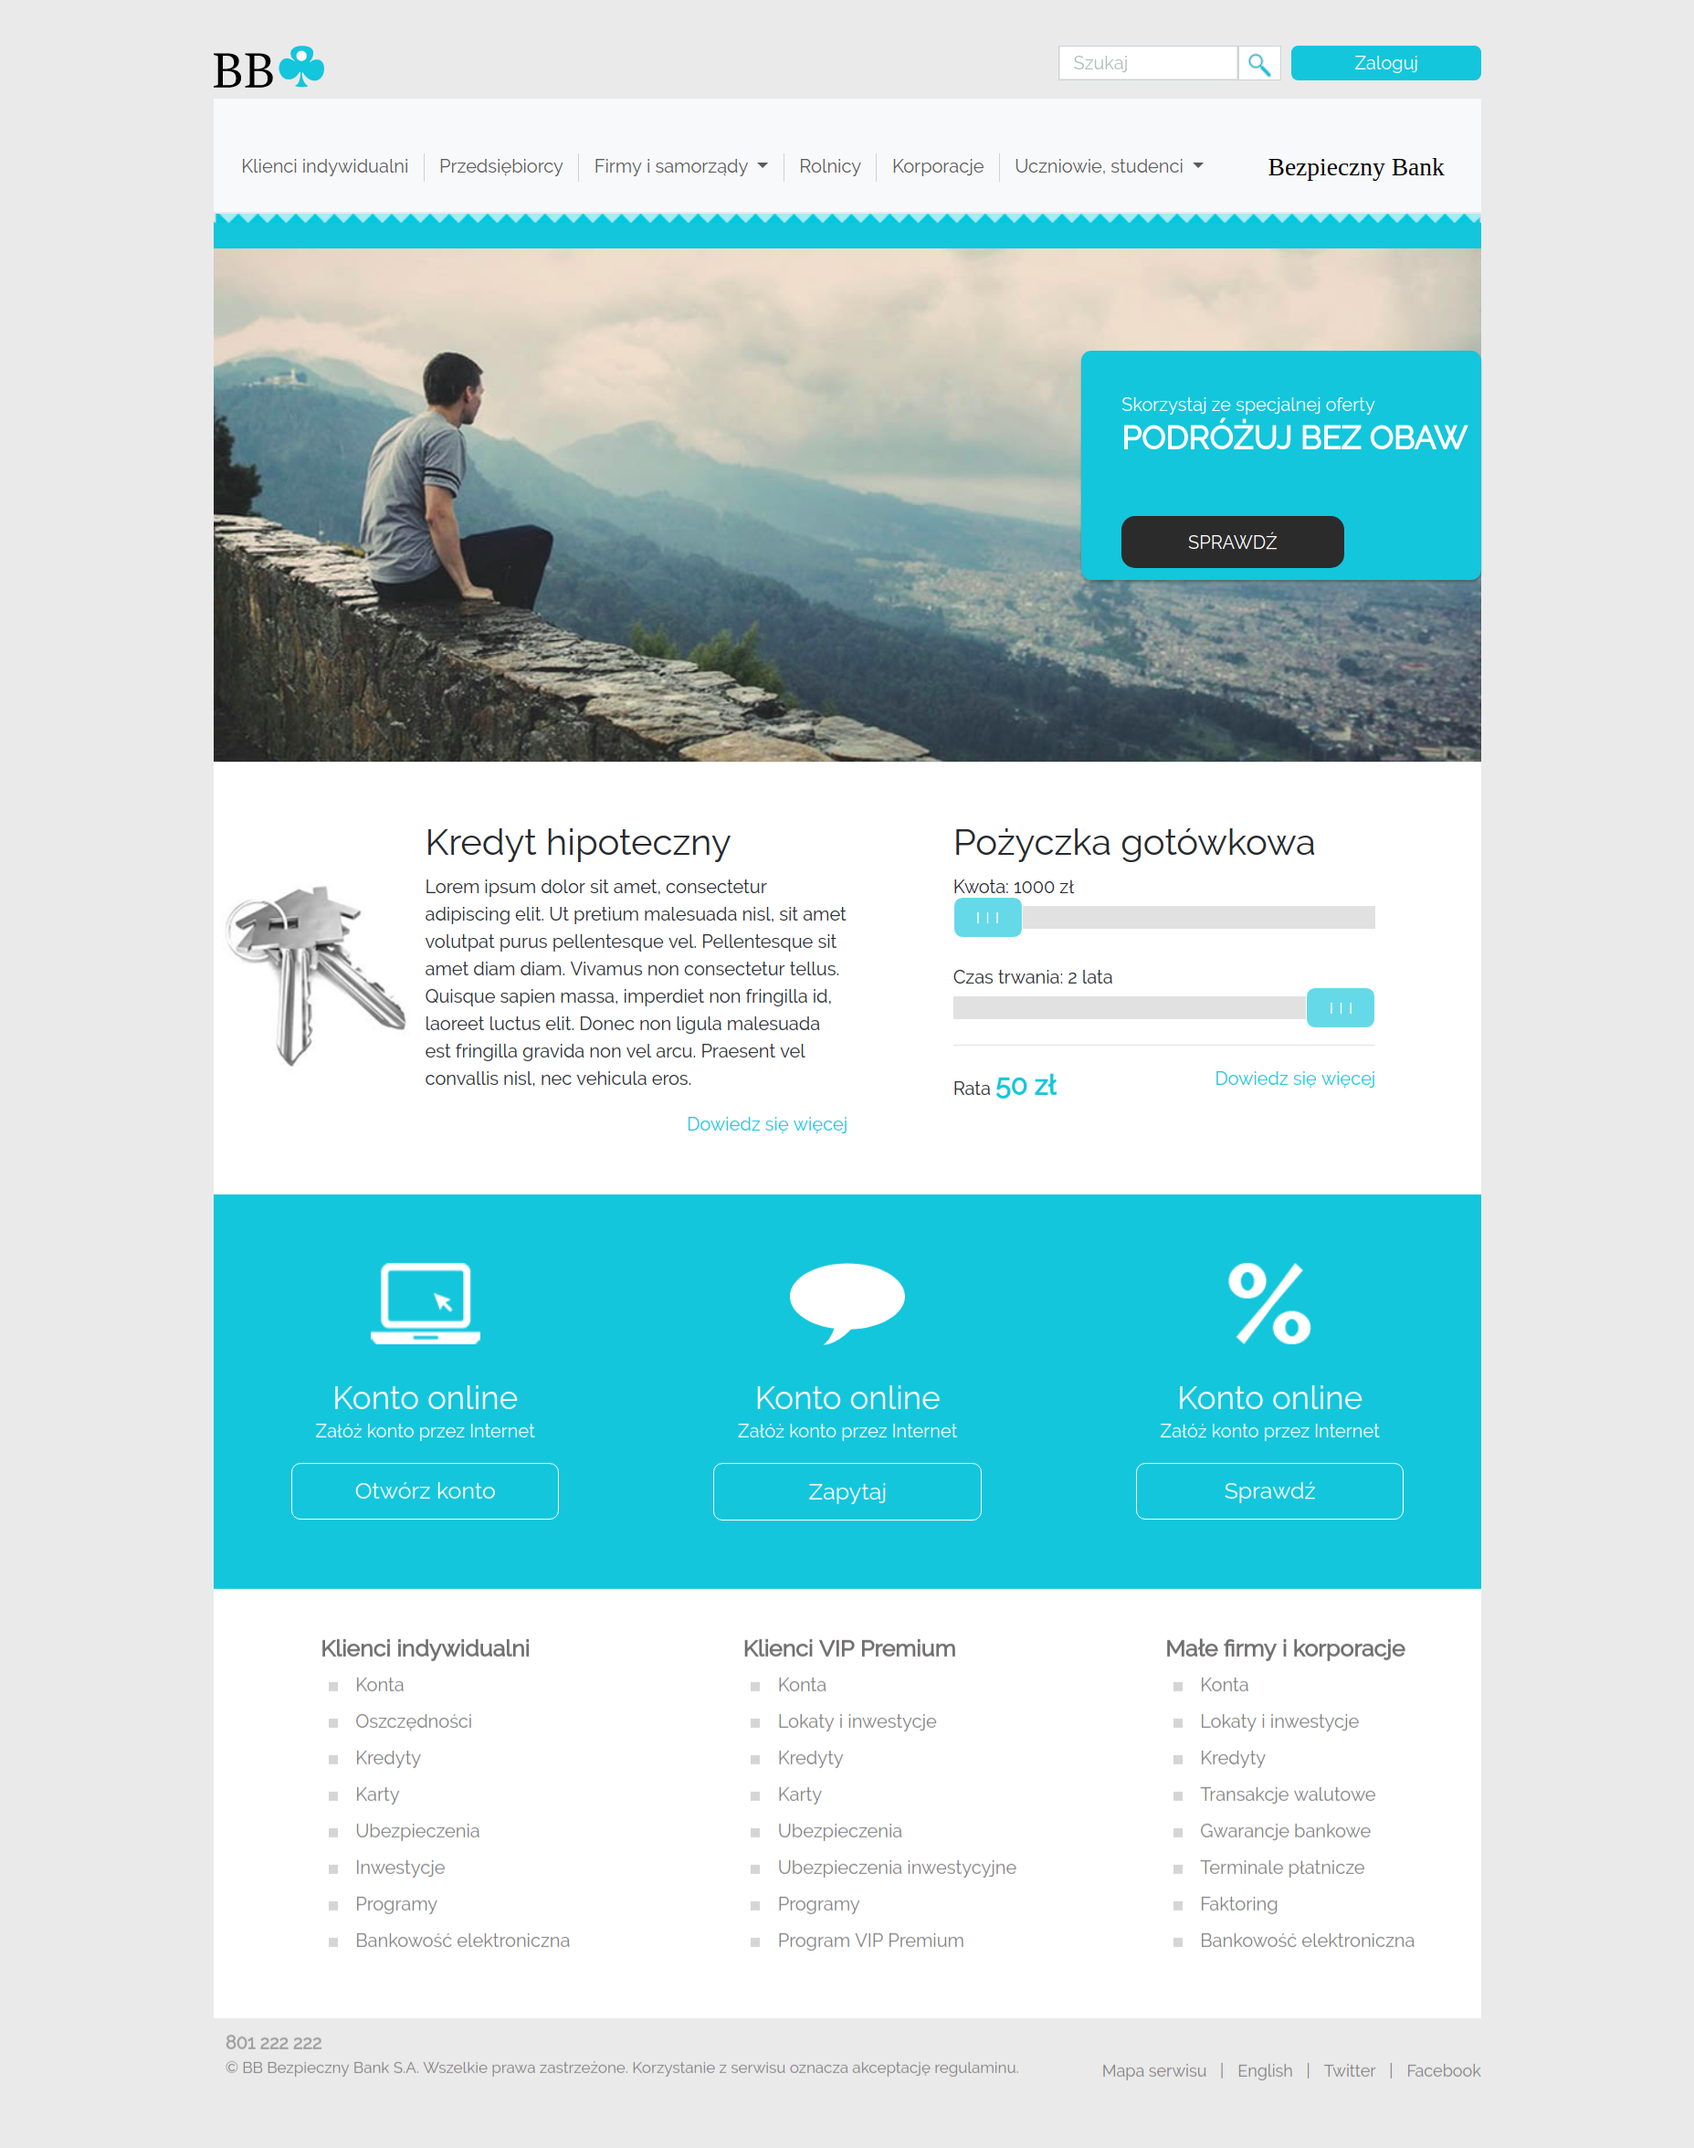
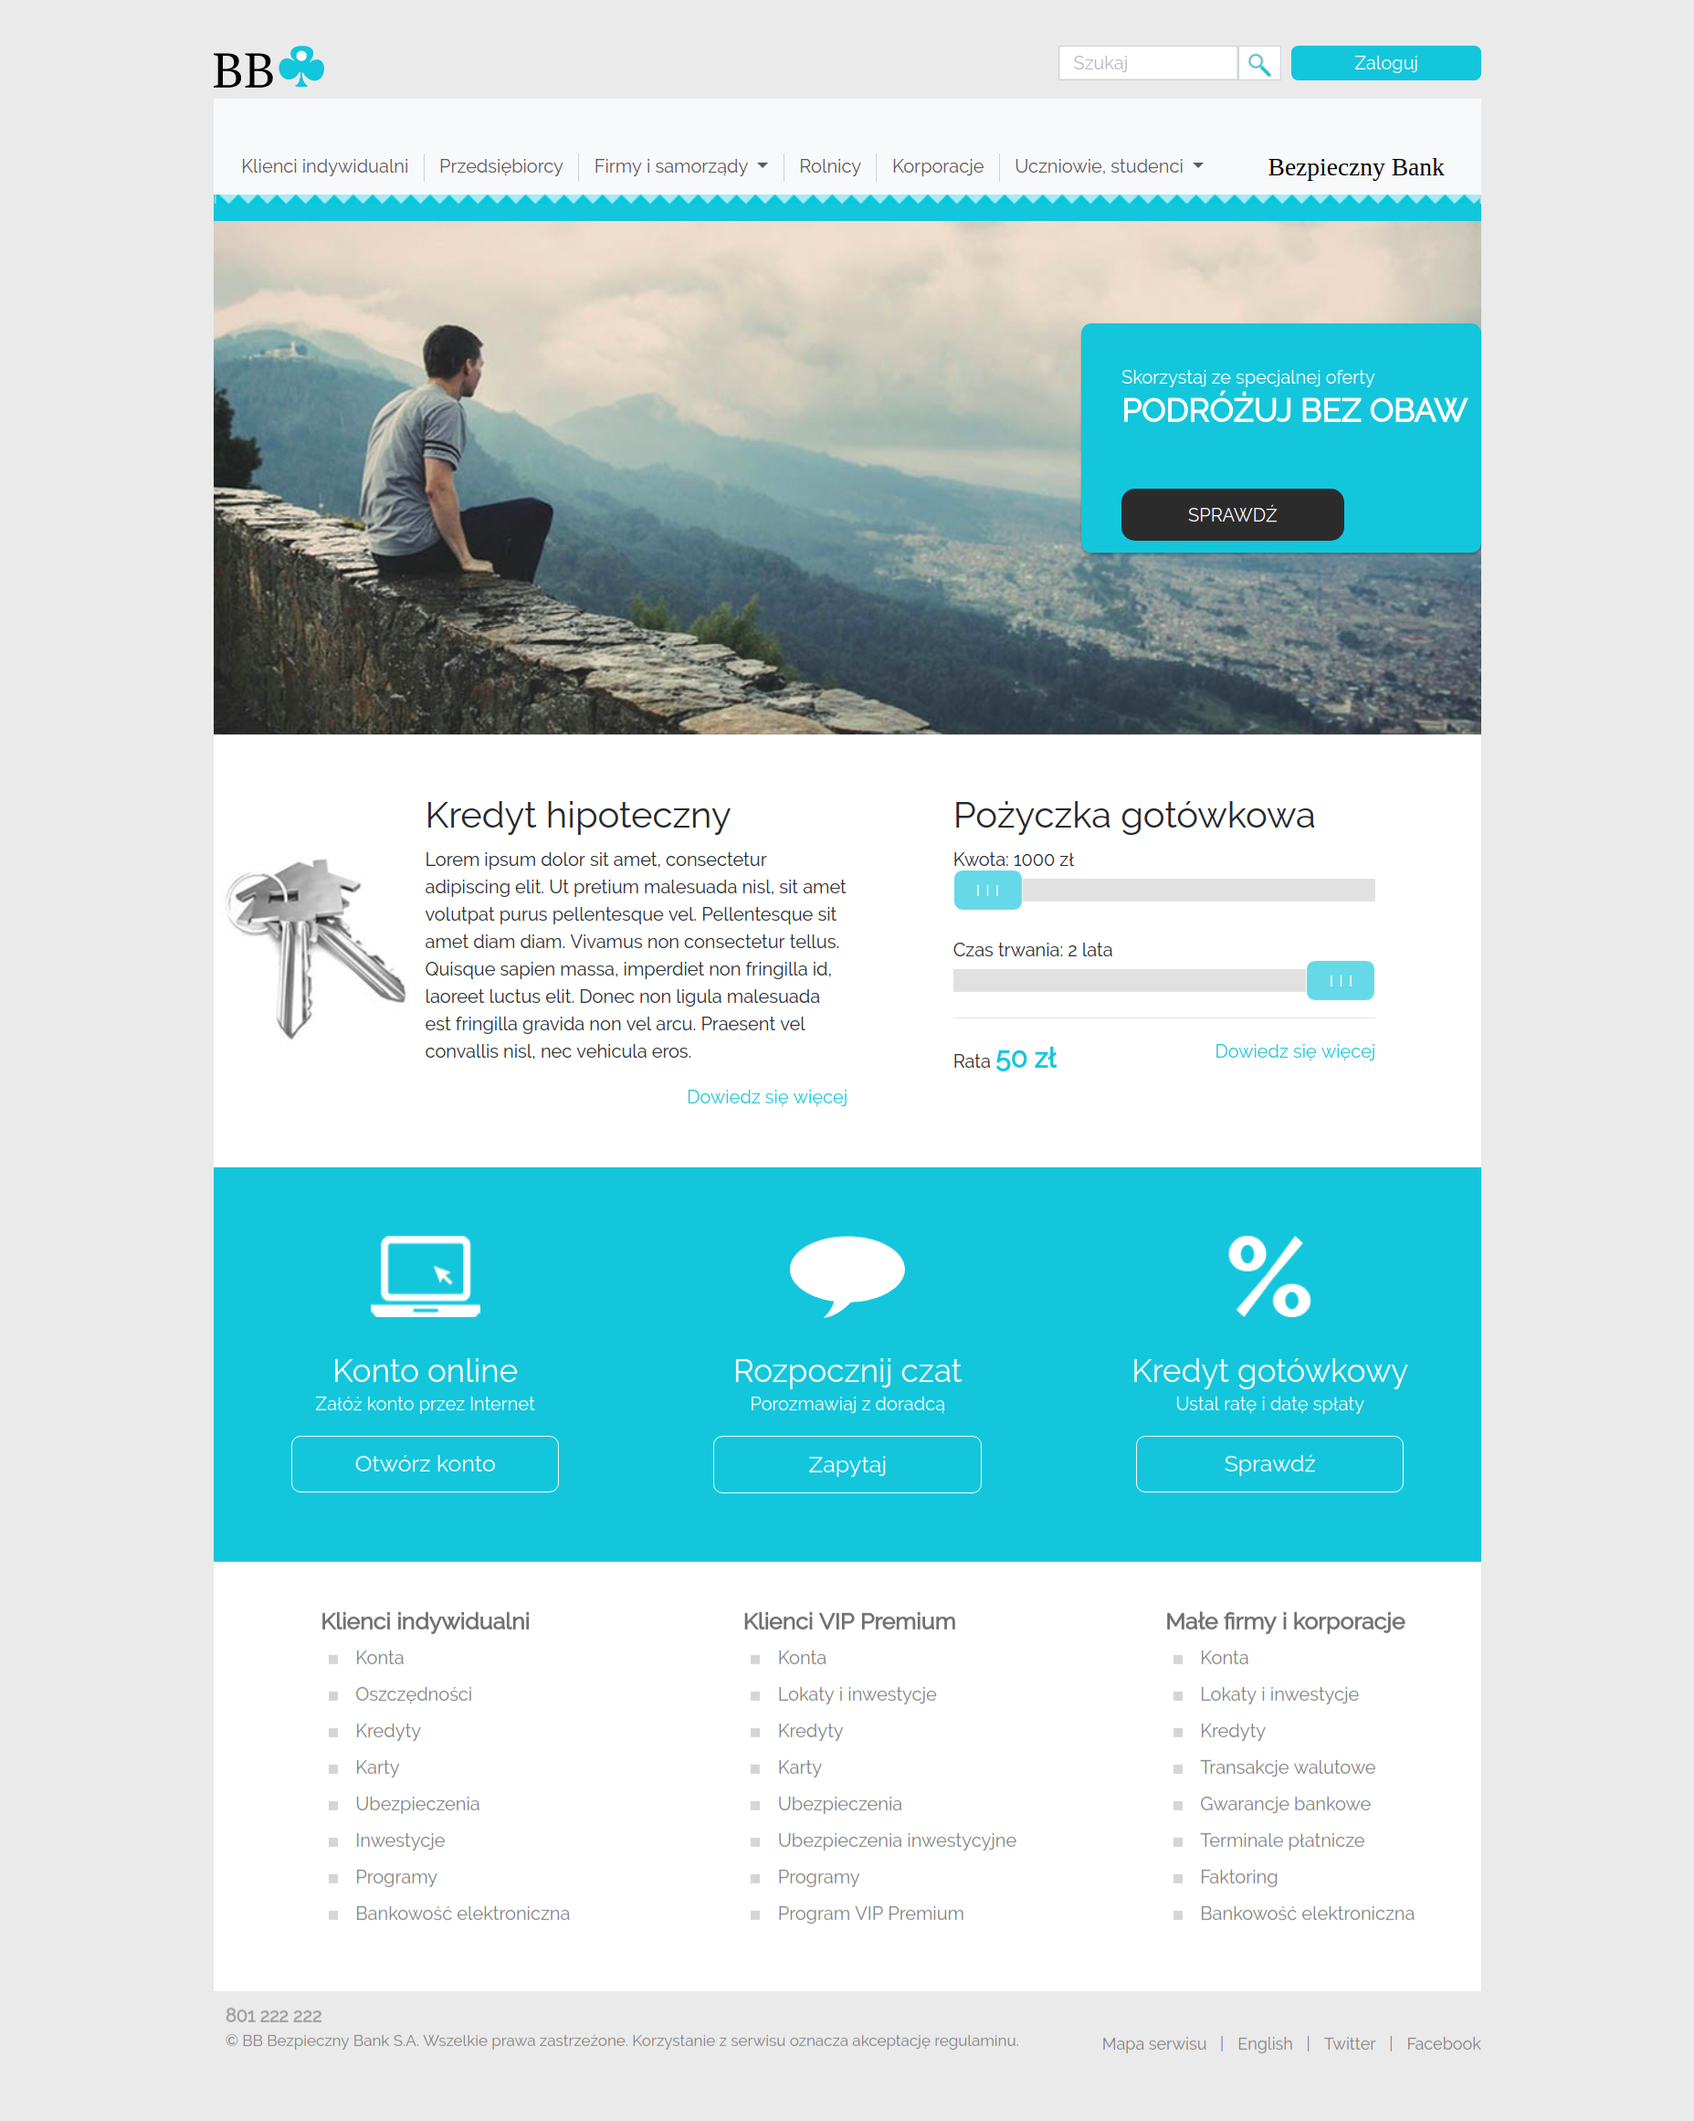
add traingles, update readme

Changed region(s): [[0.1229, 0.062, 0.8911, 0.9302]]

diff --git a/css/style.css b/css/style.css
@@ -1,3 +1,3 @@
-*{font-family:'Raleway', sans-serif}body{background-color:#ebebeb}.top{margin-top:20px;margin-bottom:10px}.blue_button{border-radius:6px;background-color:#50c5da;width:166px;height:30px;padding:0;color:white}#glass,#srch-term{background-color:#fff;border:1px solid #ced4da;border-radius:0;height:30px}#glass{margin-right:-10px}#srch-term::placeholder{opacity:0.5}#glass img{margin:-8px;margin-top:-15px}.navbar-nav,.navbar-brand{margin-top:30px;margin-bottom:10px}.nav-link{color:#5b5a5a}.nav-link:hover,.dropdown-item:hover,.navbar-brand:hover{color:#096c7e}.navbar-brand{font-family:Times New Roman;font-size:22px;color:black}.vl{border-left:1px solid lightgrey;height:25px;margin-left:5px;margin-right:5px;margin-top:1%}.arrow-down{width:0;height:0;border-left:20px solid transparent;border-right:20px solid transparent;border-top:20px solid #f00;display:inline-block}.blueStrip{height:23px;background-color:#50c5da;margin-top:-15px}.mainImg,.triangles{width:100%}.triangles{margin-top:-15px}.mainImg{height:450px}.blue{border-radius:9px;background-color:#50c5da;box-shadow:0 2px 2px 0 rgba(0,0,0,0.23);max-width:401px;height:201px;z-index:3;margin-top:-360px;position:relative}.blue p,h3{color:white}.blue p{margin-bottom:0;position:absolute;margin-top:10%;margin-left:10%}.blue h3{position:absolute;margin-top:17%;margin-left:10%;font-weight:bold}.check{border-radius:12px;background-color:#272727;width:195px;height:45px;color:white;margin-top:145px;margin-left:10%}.check:hover{color:#50c5da}.emptyRow{height:50px;background-color:white}.sliderSection{background-color:white}.slider{-webkit-appearance:none;width:100%;background:#d3d3d3;outline:none;-webkit-transition:.2s;transition:opacity .2s;opacity:0.651;height:20px}.slider::-webkit-slider-thumb{-webkit-appearance:none;appearance:none;cursor:pointer;background-image:url("../images/three.png");background-size:45% 30%;background-repeat:no-repeat;background-position:center;border:1px solid #fff;border-radius:8px;background-color:#50c5da;width:61px;height:36px}.slider::-moz-range-thumb{-webkit-appearance:none;appearance:none;cursor:pointer;background-image:url("../images/three.png");background-size:45% 30%;background-repeat:no-repeat;background-position:center;border:1px solid #fff;border-radius:8px;background-color:#50c5da;width:61px;height:36px}.slidecontainer p{margin-bottom:5px}#rata,#defaultRata,.link{color:#50c5da}#rata,#defaultRata{font-weight:bold;font-size:150%}.blueRow{height:40px;background-color:#50c5da}.bl{background-color:#50c5da}.blueimg{margin-bottom:30px;margin-top:20px}.bluediv p{color:white;margin-top:-8px}.transparentBtn{border:1px solid #fff;border-radius:8px;background-color:transparent;width:235px;height:50px;color:white;font-size:20px;margin-bottom:20px}.transparentBtn:hover{color:darkblue}.white{background-color:white}.whiteRow{height:40px;background-color:white}.side{width:5%}.oneSection h5{margin-left:7%;font-weight:bold;color:#717070}.oneSection ul li a{color:grey;margin-left:10px}.oneSection ul li{margin-bottom:8px}.oneSection ul{list-style-image:url("../images/square.svg")}.footInf p{color:grey;margin-bottom:0;margin-left:10px}.tel p{margin-top:10px;font-weight:bold;color:#a0a0a0}.copyrights{font-size:85%}.bottom{height:40px}.list-unstyled li a span{padding-left:8px}.list-unstyled li a{font-size:90%;color:grey}
+*{font-family:'Raleway', sans-serif}body{background-color:#ebebeb}.top{margin-top:20px;margin-bottom:10px}.blue_button{border-radius:6px;background-color:#50c5da;width:166px;height:30px;padding:0;color:white}#glass,#srch-term{background-color:#fff;border:1px solid #ced4da;border-radius:0;height:30px}#glass{margin-right:-10px}#srch-term::placeholder{opacity:0.5}#glass img{margin:-8px;margin-top:-15px}.navbar-nav,.navbar-brand{margin-top:30px;margin-bottom:10px}.nav-link{color:#5b5a5a}.nav-link:hover,.dropdown-item:hover,.navbar-brand:hover{color:#096c7e}.navbar-brand{font-family:Times New Roman;font-size:22px;color:black}.vl{border-left:1px solid lightgrey;height:25px;margin-left:5px;margin-right:5px;margin-top:1%}.arrow-down{width:0;height:0;border-left:20px solid transparent;border-right:20px solid transparent;border-top:20px solid #f00;display:inline-block}.blueStrip{height:23px;background-color:#50c5da;margin-top:-15px;position:relative}.mainImg,.triangles{width:100%}.triangles{margin-top:-23px;position:absolute}.mainImg{height:450px}.blue{border-radius:9px;background-color:#50c5da;box-shadow:0 2px 2px 0 rgba(0,0,0,0.23);max-width:401px;height:201px;z-index:3;margin-top:-360px;position:relative}.blue p,h3{color:white}.blue p{margin-bottom:0;position:absolute;margin-top:10%;margin-left:10%}.blue h3{position:absolute;margin-top:17%;margin-left:10%;font-weight:bold}.check{border-radius:12px;background-color:#272727;width:195px;height:45px;color:white;margin-top:145px;margin-left:10%}.check:hover{color:#50c5da}.emptyRow{height:50px;background-color:white}.sliderSection{background-color:white}.slider{-webkit-appearance:none;width:100%;background:#d3d3d3;outline:none;-webkit-transition:.2s;transition:opacity .2s;opacity:0.651;height:20px}.slider::-webkit-slider-thumb{-webkit-appearance:none;appearance:none;cursor:pointer;background-image:url("../images/three.png");background-size:45% 30%;background-repeat:no-repeat;background-position:center;border:1px solid #fff;border-radius:8px;background-color:#50c5da;width:61px;height:36px}.slider::-moz-range-thumb{-webkit-appearance:none;appearance:none;cursor:pointer;background-image:url("../images/three.png");background-size:45% 30%;background-repeat:no-repeat;background-position:center;border:1px solid #fff;border-radius:8px;background-color:#50c5da;width:61px;height:36px}.slidecontainer p{margin-bottom:5px}#rata,#defaultRata,.link{color:#50c5da}#rata,#defaultRata{font-weight:bold;font-size:150%}.blueRow{height:40px;background-color:#50c5da}.bl{background-color:#50c5da}.blueimg{margin-bottom:30px;margin-top:20px}.bluediv p{color:white;margin-top:-8px}.transparentBtn{border:1px solid #fff;border-radius:8px;background-color:transparent;width:235px;height:50px;color:white;font-size:20px;margin-bottom:20px}.transparentBtn:hover{color:darkblue}.white{background-color:white}.whiteRow{height:40px;background-color:white}.side{width:5%}.oneSection h5{margin-left:7%;font-weight:bold;color:#717070}.oneSection ul li a{color:grey;margin-left:10px}.oneSection ul li{margin-bottom:8px}.oneSection ul{list-style-image:url("../images/square.svg")}.footInf p{color:grey;margin-bottom:0;margin-left:10px}.tel p{margin-top:10px;font-weight:bold;color:#a0a0a0}.copyrights{font-size:85%}.bottom{height:40px}.list-unstyled li a span{padding-left:8px}.list-unstyled li a{font-size:90%;color:grey}
 
 /*# sourceMappingURL=style.css.map */

diff --git a/index.html b/index.html
@@ -109,8 +109,8 @@
     <div class="container">
         <div class="row justify-content-center no-gutters">
             <div class="col-12">
-                <img class="triangles" src="images/tri.png">
                 <div class="blueStrip"></div>
+                <img class="triangles" src="images/tri.png">
                 <img class="mainImg" src="images/img.png">
             </div>
         </div>
@@ -187,8 +187,8 @@
             <div class="col-lg-3">
                 <div class="text-center bluediv">
                     <img class="mx-auto d-block blueimg" src="images/chmurka.svg">
-                    <h3>Konto online</h3>
-                    <p>Załóż konto przez Internet</p>
+                    <h3>Rozpocznij czat</h3>
+                    <p>Porozmawiaj z doradcą</p>
                     <button type="button" class="btn transparentBtn">Zapytaj</button>
                 </div>
             </div>
@@ -196,8 +196,8 @@
             <div class="col-lg-3">
                 <div class="text-center bluediv">
                     <img class="mx-auto d-block blueimg" src="images/pro.png">
-                    <h3>Konto online</h3>
-                    <p>Załóż konto przez Internet</p>
+                    <h3>Kredyt gotówkowy</h3>
+                    <p>Ustal ratę i datę spłaty</p>
                     <button type="button" class="btn transparentBtn">Sprawdź</button>
                 </div>
             </div>

diff --git a/scss/style.css b/scss/style.css
@@ -65,18 +65,15 @@ body {
 .blueStrip {
   height: 23px;
   background-color: #50c5da;
-  margin-top: -15px; }
+  margin-top: -15px;
+  position: relative; }
 
-/*
-.triangles {
-  width: 1103px;
-}
-*/
 .mainImg, .triangles {
   width: 100%; }
 
 .triangles {
-  margin-top: -15px; }
+  margin-top: -23px;
+  position: absolute; }
 
 .mainImg {
   height: 450px; }

diff --git a/scss/style.scss b/scss/style.scss
@@ -88,20 +88,16 @@ body {
   height: 23px;
   background-color: #50c5da;
   margin-top: -15px;
+  position: relative;
 }
-
-/*
-.triangles {
-  width: 1103px;
-}
-*/
 
 .mainImg, .triangles {
   width: 100%;
 }
 
 .triangles {
-  margin-top: -15px;
+  margin-top: -23px;
+  position: absolute;
 }
 
 .mainImg {

diff --git a/readme.md b/readme.md
@@ -15,7 +15,8 @@ Demo: https://agnxr.github.io/safe-bank/
 
 Screen:
 
-![screen](https://user-images.githubusercontent.com/32043294/35219045-312423aa-ff71-11e7-8c34-6502500bf6df.png)
+![screen](https://user-images.githubusercontent.com/32043294/35222718-17a84fba-ff7f-11e7-895d-15e498b4c28a.png)
+
 
 
 
